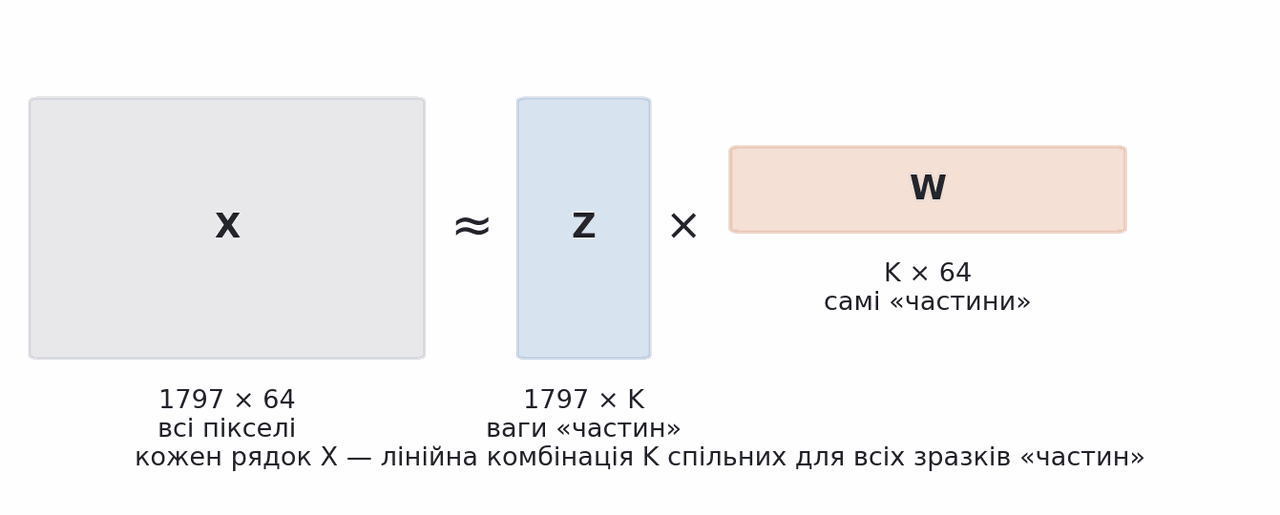
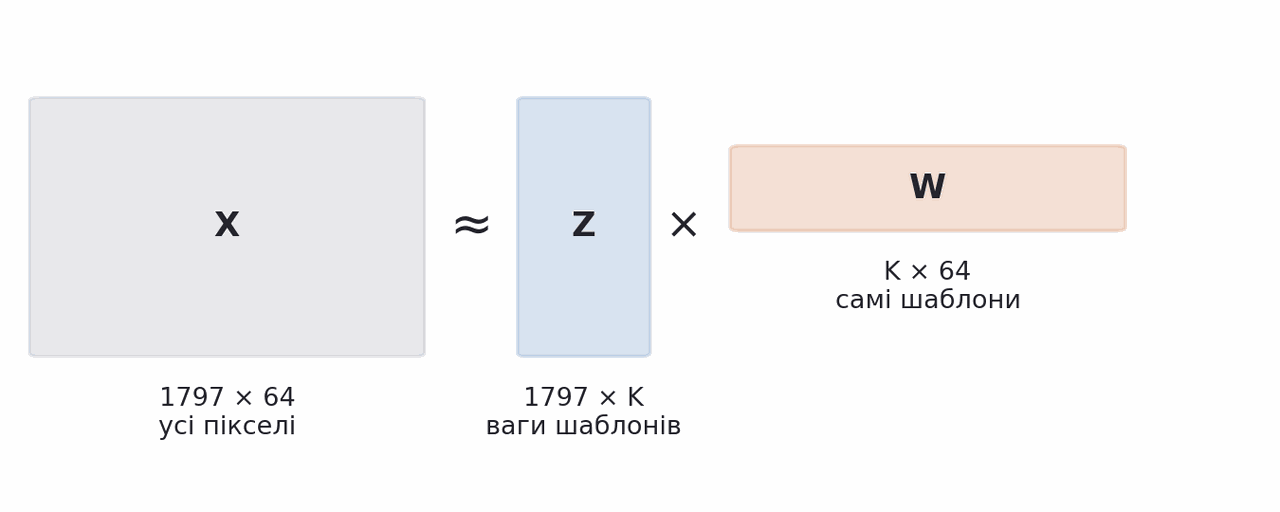
Л09: правки читача — шаг 5 від кінцевої задачі, одна міра помилки, ваги шаблонів
Шаг 5 починається з таблиці оцінок і перевіряє ідею на закритих числах. Помилка цифр
скрізь середня абсолютна, RMSE названо окремо. Ваги шаблонів пояснено як проєкцію.
Розрахунки кроку 5 і віджет SGD тепер на квартирах із закритою орендою D.

diff --git a/.vitepress/theme/components/SgdMatrixLab.vue b/.vitepress/theme/components/SgdMatrixLab.vue
@@ -1,8 +1,8 @@
 <script setup lang="ts">
 /**
- * SGD на умовній таблиці 4 × 4 із дірками (лекція 09, розділ 5.1): K = 2,
- * η = 0,1, ρ = 0,05. Кроки йдуть по відомих клітинках рядками,
- * перший крок — рівно блок «Розрахунок: один крок». Формули — (7).
+ * SGD на п'яти квартирах із закритою орендою D (лекція 09, розділ 5.1): один
+ * шаблон, η = 0,1, ρ = 0,05. Кроки йдуть по відомих клітинках рядками, перший
+ * крок — рівно блок «Розрахунок: один крок». Формули — (7).
  * Дані — tools/gen_lec09_widgets.py.
  */
 import { ref, computed } from 'vue'
@@ -13,23 +13,20 @@ const CELLS: [number, number][] = []
 M.forEach((row, a) => row.forEach((x, b) => { if (x !== null) CELLS.push([a, b]) }))
 const EPOCH = CELLS.length
 
-type Vec = number[]
-const dot = (u: Vec, v: Vec) => u[0] * v[0] + u[1] * v[1]
-
 /** Повний прогін: стан після кожного кроку. */
 const states = (() => {
-  let Z = d.Z.map(r => [...r]), W = d.W.map(r => [...r])
-  const rmse = () => Math.sqrt(CELLS.reduce((s, [a, b]) => s + ((M[a][b] as number) - dot(Z[a], W[b])) ** 2, 0) / EPOCH)
+  let Z = [...d.Z], W = [...d.W]
+  const rmse = () => Math.sqrt(CELLS.reduce((s, [a, b]) => s + ((M[a][b] as number) - Z[a] * W[b]) ** 2, 0) / EPOCH)
   const out = [{ Z, W, rmse: rmse(), info: null as null | Record<string, any> }]
   for (let t = 0; t < d.maxSteps; t++) {
     const [a, b] = CELLS[t % EPOCH]
     const z = Z[a], w = W[b]
-    const pred = dot(z, w), e = (M[a][b] as number) - pred
-    const zn = z.map((v, k) => v + d.eta * (e * w[k] - d.rho * v))
-    const wn = w.map((v, k) => v + d.eta * (e * z[k] - d.rho * v))
-    Z = Z.map((r, i) => (i === a ? zn : r))
-    W = W.map((r, i) => (i === b ? wn : r))
-    out.push({ Z, W, rmse: rmse(), info: { a, b, x: M[a][b], pred, e, z, w, zn, wn, next: dot(zn, wn) } })
+    const pred = z * w, e = (M[a][b] as number) - pred
+    const zn = z + d.eta * (e * w - d.rho * z)
+    const wn = w + d.eta * (e * z - d.rho * w)
+    Z = Z.map((v, i) => (i === a ? zn : v))
+    W = W.map((v, i) => (i === b ? wn : v))
+    out.push({ Z, W, rmse: rmse(), info: { a, b, x: M[a][b], pred, e, z, w, zn, wn, next: zn * wn } })
   }
   return out
 })()
@@ -39,8 +36,8 @@ const cur = computed(() => states[step.value])
 const go = (n: number) => { step.value = Math.max(0, Math.min(d.maxSteps, n)) }
 
 const f = (v: number, nd = 2) => v.toFixed(nd).replace('.', ',').replace('-', '−')
-const vec = (v: Vec) => `(${f(v[0])}; ${f(v[1])})`
-const pred = (a: number, b: number) => dot(cur.value.Z[a], cur.value.W[b])
+const pred = (a: number, b: number) => cur.value.Z[a] * cur.value.W[b]
+const rent = computed(() => Math.round(d.rentMean + d.rentStd * pred(3, 1)))
 
 const CW = 300, CH = 170, PL = 34, PB = 26, PT = 8, PR = 8
 const top = states[0].rmse
@@ -53,23 +50,25 @@ const curve = states.map((s, t) => `${cx(t)},${cy(s.rmse)}`).join(' ')
   <div class="lab">
     <div class="lab__head">
       <div>
-        <div class="lab__title">Навчання на таблиці з дірками</div>
+        <div class="lab__title">Навчання на таблиці з діркою</div>
         <div class="lab__sub">
-          Числа умовні, ті самі, що в розрахунку цього розділу: K = 2, η = 0,1, ρ = 0,05.
-          Великі числа — відомі клітинки, дрібні — поточний прогноз ⟨z, w⟩; порожні клітинки заповнює лише модель.
+          П'ять квартир, оренду D закрито. Великі числа — відомі стандартизовані значення,
+          дрібні — поточний прогноз z · w. Перший крок — той самий, що в розрахунку цього розділу.
         </div>
       </div>
     </div>
 
     <div class="sm__wrap">
       <table class="sm__grid">
-        <thead><tr><th></th><th v-for="b in 4" :key="b">с{{ b }}</th></tr></thead>
+        <thead><tr><th></th><th>вага z</th><th v-for="(c, b) in d.cols" :key="b">{{ c }}</th></tr></thead>
         <tbody>
+          <tr><th>шаблон w</th><td class="is-empty"></td><td v-for="(w, b) in cur.W" :key="b" class="sm__par">{{ f(w) }}</td></tr>
           <tr v-for="(row, a) in M" :key="a">
-            <th>р{{ a + 1 }}</th>
+            <th>{{ d.rows[a] }}</th>
+            <td class="sm__par">{{ f(cur.Z[a]) }}</td>
             <td v-for="(x, b) in row" :key="b"
                 :class="{ 'is-on': cur.info && cur.info.a === a && cur.info.b === b, 'is-empty': x === null }">
-              <b v-if="x !== null">{{ x }}</b>
+              <b v-if="x !== null">{{ f(x) }}</b>
               <span :data-check="`p${a}${b}`">{{ f(pred(a, b)) }}</span>
             </td>
           </tr>
@@ -79,10 +78,10 @@ const curve = states.map((s, t) => `${cx(t)},${cy(s.rmse)}`).join(' ')
       <div class="sm__info">
         <p class="sm__head">Крок <b data-check="step">{{ step }}</b> із {{ d.maxSteps }}<template v-if="step"> · епоха {{ Math.ceil(step / EPOCH) }}</template></p>
         <template v-if="cur.info">
-          <p>клітинка р{{ cur.info.a + 1 }}, с{{ cur.info.b + 1 }}: значення {{ cur.info.x }}</p>
+          <p>клітинка {{ d.rows[cur.info.a] }}, {{ d.cols[cur.info.b] }}: {{ f(cur.info.x) }}</p>
           <p>прогноз <b data-check="pred">{{ f(cur.info.pred) }}</b>, помилка e = <b data-check="e">{{ f(cur.info.e) }}</b></p>
-          <p>z: {{ vec(cur.info.z) }} → <b data-check="z">{{ vec(cur.info.zn) }}</b></p>
-          <p>w: {{ vec(cur.info.w) }} → <b data-check="w">{{ vec(cur.info.wn) }}</b></p>
+          <p>z: {{ f(cur.info.z) }} → <b data-check="z">{{ f(cur.info.zn) }}</b></p>
+          <p>w: {{ f(cur.info.w) }} → <b data-check="w">{{ f(cur.info.wn) }}</b></p>
           <p>новий прогноз <b data-check="next">{{ f(cur.info.next) }}</b></p>
         </template>
         <p v-else>Натисніть «крок»: візьмемо першу відому клітинку.</p>
@@ -95,7 +94,7 @@ const curve = states.map((s, t) => `${cx(t)},${cy(s.rmse)}`).join(' ')
       <button class="lab__btn" :disabled="step === 0" @click="go(0)">спочатку</button>
     </div>
 
-    <svg :viewBox="`0 0 ${CW} ${CH}`" class="sm__plot" role="img" aria-label="RMSE на відомих клітинках за кроками">
+    <svg :viewBox="`0 0 ${CW} ${CH}`" class="sm__plot" role="img" aria-label="Помилка на відомих клітинках за кроками">
       <line :x1="PL" :x2="CW - PR" :y1="cy(0)" :y2="cy(0)" class="sm__axis" />
       <line :x1="PL" :x2="PL" :y1="PT" :y2="cy(0)" class="sm__axis" />
       <text :x="PL - 5" :y="cy(0) + 4" text-anchor="end" class="sm__tick">0</text>
@@ -107,11 +106,12 @@ const curve = states.map((s, t) => `${cx(t)},${cy(s.rmse)}`).join(' ')
 
     <div class="lab__stats">
       <div class="lab__stat is-green"><b data-check="rmse">{{ f(cur.rmse, 3) }}</b><span>RMSE на {{ EPOCH }} відомих клітинках</span></div>
+      <div class="lab__stat"><b data-check="rent">{{ rent }}</b><span>прогноз оренди D, доларів (справжня 500)</span></div>
     </div>
 
     <p class="lab__note">
-      За десять епох (110 кроків) RMSE на відомих клітинках падає до 0,093. Порожні клітинки в суму не
-      входять, а прогноз для них складається сам: рядок р3 схожий на р4, тому в стовпці с3 дістає високе значення.
+      За 20 епох (180 кроків) RMSE на відомих клітинках падає до 0,063, а закрита оренда D виходить
+      близько 510 доларів, хоча в навчанні ця клітинка не брала участі.
     </p>
   </div>
 </template>
@@ -135,15 +135,17 @@ const curve = states.map((s, t) => `${cx(t)},${cy(s.rmse)}`).join(' ')
 .sm__grid th { font-size: 0.72rem; font-weight: 500; color: var(--vp-c-text-2); border: 0; padding: 0.15rem; background: none; width: auto; }
 .sm__grid td {
   border: 1px solid var(--uk-line);
-  padding: 0.25rem 0.1rem;
+  padding: 0.2rem 0.1rem;
   text-align: center;
   line-height: 1.15;
   background: var(--vp-c-bg);
+  font-variant-numeric: tabular-nums;
 }
-.sm__grid td b { display: block; font-size: 1.05rem; }
-.sm__grid td span { font-size: 0.72rem; color: var(--vp-c-text-2); font-variant-numeric: tabular-nums; }
+.sm__grid td b { display: block; font-size: 0.95rem; }
+.sm__grid td span { font-size: 0.72rem; color: var(--vp-c-text-2); }
+.sm__grid td.sm__par { font-size: 0.82rem; color: #2F6DB5; }
 .sm__grid td.is-empty { background: var(--vp-c-bg-soft); }
-.sm__grid td.is-empty span { font-size: 0.86rem; font-style: italic; }
+.sm__grid td.is-empty span { font-size: 0.9rem; font-style: italic; }
 .sm__grid td.is-on { outline: 2px solid #C2571A; outline-offset: -2px; }
 .sm__info { font-size: 0.86rem; line-height: 1.5; font-variant-numeric: tabular-nums; }
 .sm__info p { margin: 0 0 0.15rem; }
